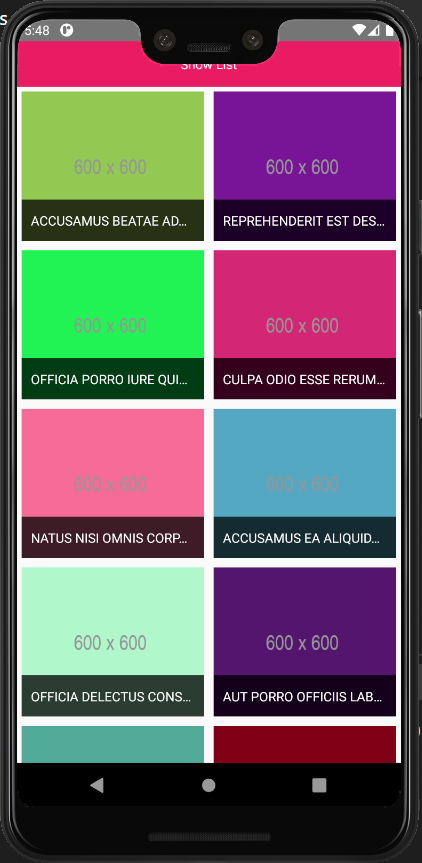
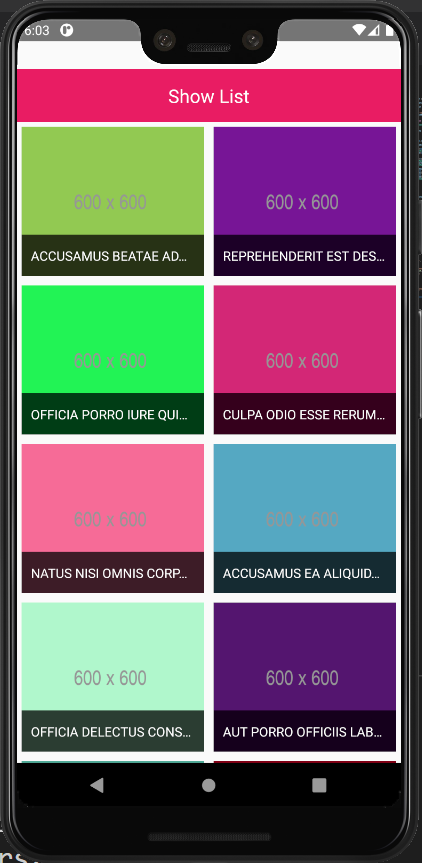
added demo

diff --git a/src/Main.js b/src/Main.js
@@ -48,8 +48,6 @@ class Main extends Component {
 }
 
 const mapStateToProps = state => {
-  //const { imageState, dataState } = state
-  console.log(state.imageState.gridView)
   return { 
     gridView: state.imageState.gridView,
     loading: state.dataState.loading,
@@ -104,11 +102,13 @@ const styles = StyleSheet.create(
      color: 'black'
    },
    buttonDesign: {
+     marginTop: 30,
      padding: 15,
      backgroundColor: '#e91e63'
    },
    buttonText: {
      color: 'white',
+     fontSize: 20,
      textAlign: 'center',
      alignSelf: 'stretch'
    }

diff --git a/src/Components/ImageComponent.js b/src/Components/ImageComponent.js
@@ -1,4 +1,4 @@
-import React, { PureComponent } from 'react';
+import React, { PureComponent, Component } from 'react';
 import { Image, 
   StyleSheet, View, 
   Text, TouchableOpacity,
@@ -8,7 +8,7 @@ import { Image,
 import RBSheet from "react-native-raw-bottom-sheet";
 import ImageZoom from 'react-native-image-pan-zoom';
 
-class ImageComponent extends PureComponent {
+class ImageComponent extends Component {
     constructor() {
       super();
     }
